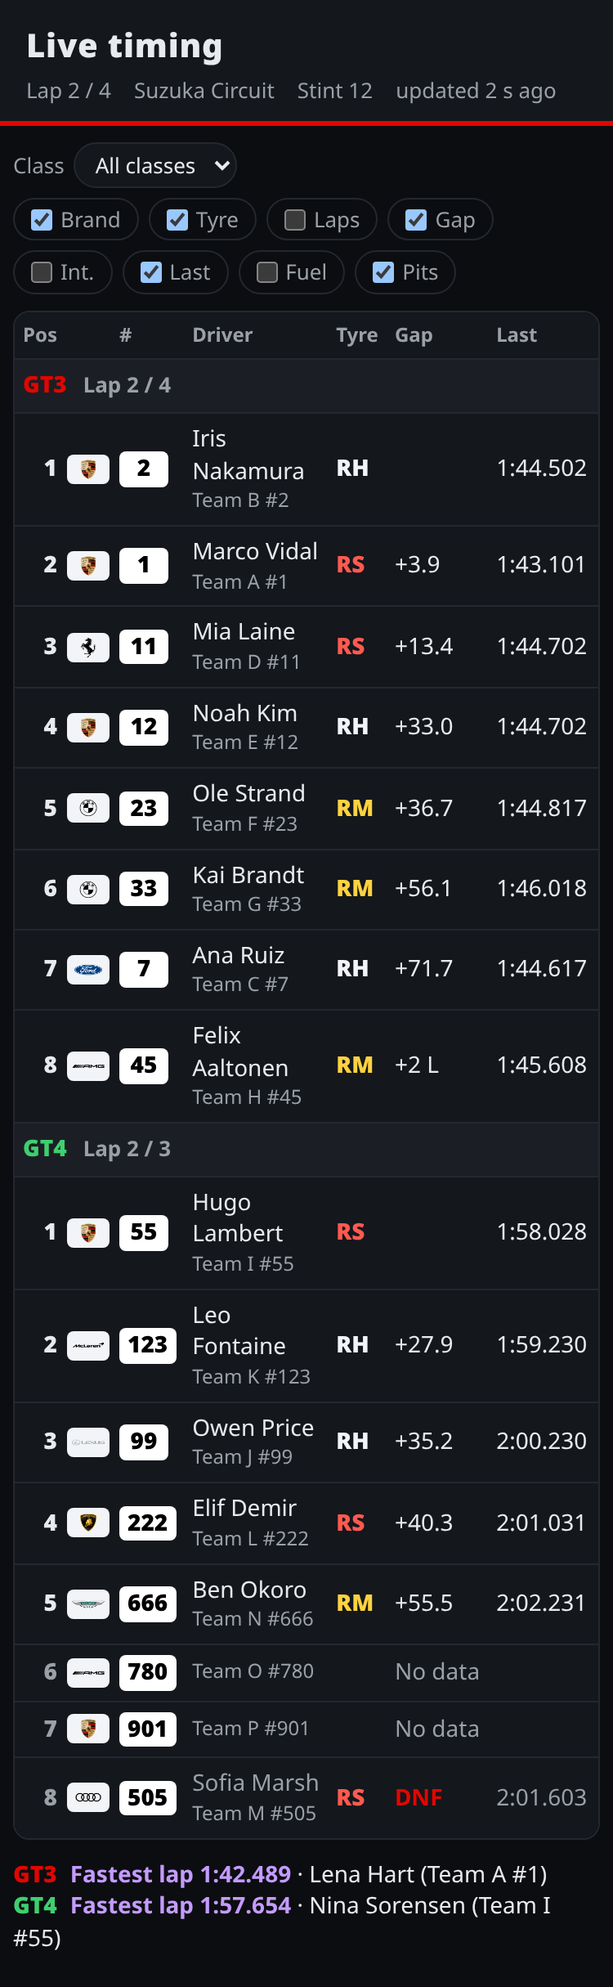
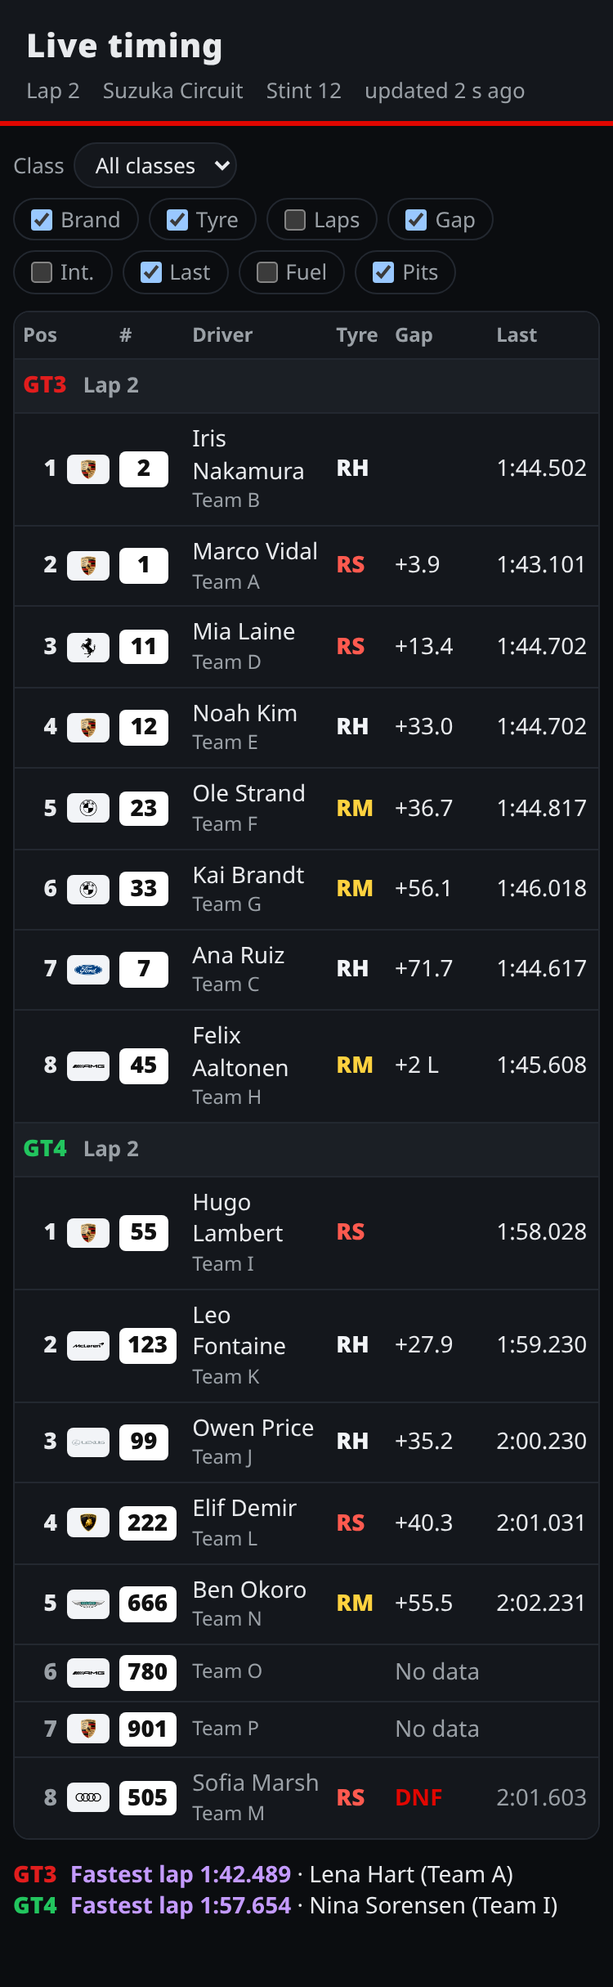
fix(obs, timing): one race timer on program, no qualifying label in the race and a public timer without lobby laps (#1370)
* fix(obs, timing): one race timer on program, no qualifying label in the race and a public timer without lobby laps

- While the HUD shows the race timer, the tower's header line shows the race
  lap instead of the time (timer_shown in the dashboard payload), so the time
  is on air once.
- A relay launch in race mode writes the on-air row's Streamer and Stint label
  into the HUD as the qualifying launch did; a race event no longer keeps the
  Qualifying label the previous event left in the Sheet.
- The public timing page shows the race timer as a clock beside the title. In
  an endurance race (multi_lobby) public_view drops the lap counts, which come
  from the stint lobbies and stay with the crew; a single-lobby race keeps its
  distance.

Closes #1364

* fix(obs, relay): review fixes for the race timer and the launch label

- timer_shown needs a relay-served HUD, so a relay without one keeps the time
  in the tower's header.
- In race mode the launch seed writes the label only over a qualifying row's
  label; a restart mid-race keeps the label on air, also one set by hand.
- With the HUD timer on air the tower's header keeps the lap count of a
  single-lobby race; an endurance race's count stays off air.
- public-timing.png recaptured without the endurance lap counts.

---------

diff --git a/src/console/timing.html b/src/console/timing.html
@@ -11,7 +11,9 @@
   * { box-sizing: border-box; }
   body { margin: 0; background: var(--bg); color: var(--ink); font: 15px/1.4 system-ui, sans-serif; }
   header { padding: 14px 16px 10px; background: var(--panel); border-bottom: 3px solid var(--accent); }
-  header > div { max-width: 1100px; margin: 0 auto; }
+  header > div { max-width: 1100px; margin: 0 auto; display: flex; align-items: center; justify-content: space-between; gap: 12px; }
+  #clock { font-size: 30px; font-weight: 800; font-variant-numeric: tabular-nums; letter-spacing: .02em; }
+  #clock[hidden] { display: none; }
   header h1 { margin: 0; font-size: 20px; font-weight: 800; letter-spacing: .02em; }
   #session { margin-top: 4px; color: var(--muted); font-size: 13px; display: flex; flex-wrap: wrap; gap: 4px 14px; }
   #session .flag { color: #ff6b6b; font-weight: 800; }
@@ -89,8 +91,11 @@
 </head>
 <body>
 <header><div>
-  <h1>Live timing</h1>
-  <div id="session"></div>
+  <div>
+    <h1>Live timing</h1>
+    <div id="session"></div>
+  </div>
+  <div id="clock" hidden></div>
 </div></header>
 <main>
   <section id="league" hidden></section>
@@ -466,14 +471,9 @@
     const parts = [];
     if (quali) parts.push("Qualifying");
     else if (d.lap && d.lap.leader) parts.push("Lap " + d.lap.leader + (d.lap.count ? " / " + d.lap.count : ""));
-    if (typeof d.remaining === "number") parts.push(null);
     if (d.track_name) parts.push(d.track_name);
     if (d.stint) parts.push(d.stint);
-    $("session").replaceChildren(...parts.map(function (p) {
-      const span = el("span", "", p);
-      if (p === null) span.id = "left";
-      return span;
-    }));
+    $("session").replaceChildren(...parts.map(function (p) { return el("span", "", p); }));
     if (d.red_flag) $("session").appendChild(el("span", "flag", "RED FLAG"));
     $("session").appendChild(el("span", "", "")).id = "age";
     tick();
@@ -563,11 +563,11 @@
   // The remaining time counts down locally only while the race timer runs.
   function tick() {
     const since = got ? Math.max(0, (Date.now() - got) / 1000) : 0;
-    const left = $("left");
-    if (left && last) {
+    const clockEl = $("clock");
+    if (clockEl && last) {
       const text = LOGIC.timerText(last.remaining, last.remaining_running, since + dataAge);
-      left.textContent = text ? text + " left" : "";
-      left.hidden = !text;
+      clockEl.textContent = text;
+      clockEl.hidden = !text;
     }
     const ageEl = $("age");
     if (ageEl && got) {

diff --git a/src/obs/drivers.html b/src/obs/drivers.html
@@ -363,9 +363,12 @@
   }
   function renderRace(d) {
     const lap = d.lap || {};
+    // A visible HUD timer already shows the time, so the header shows the race lap. An
+    // endurance race's lap count comes from the stint lobbies and stays off air then.
+    const count = lap.count && !(d.timer_shown && d.multi_lobby) ? " / " + lap.count : "";
     document.getElementById("dd-lap").textContent =
-      typeof d.remaining === "number" ? clock(d.remaining)
-      : lap.leader ? "LAP " + lap.leader + (lap.count ? " / " + lap.count : "") : "";
+      typeof d.remaining === "number" && !d.timer_shown ? clock(d.remaining)
+      : lap.leader ? "LAP " + lap.leader + count : "";
     const fl = d.fastest;
     const list = d.classes || [];
     noteLaps(d.entries || []);
@@ -421,7 +424,8 @@
   }
   function renderQualifying(d) {
     // The session line names the segment; a running timer takes the lap line, as in the race.
-    document.getElementById("dd-lap").textContent = typeof d.remaining === "number" ? clock(d.remaining) : "QUALIFYING";
+    document.getElementById("dd-lap").textContent =
+      typeof d.remaining === "number" && !d.timer_shown ? clock(d.remaining) : "QUALIFYING";
     const list = d.classes || [];
     const entries = d.qualifying || [];
     noteLaps(entries);

diff --git a/tests/test_driver_race.py b/tests/test_driver_race.py
@@ -409,12 +409,12 @@ ROSTER = {"A": {"number": "1", "bgColor": "#c00", "textColor": "#fff", "cupTeam"
           "B": {"number": "2", "bgColor": "#00c", "textColor": "#fff", "cupTeam": ""}}
 
 
-def _dash_service(ctx, path=None):
+def _dash_service(ctx, path=None, multi=False):
     path = path or os.path.join(tempfile.mkdtemp(), "driver-race.json")
     dr.write_settings(path, {"formation": False})
     clock = [0.0]
     svc = dr.Service(path, pick=lambda: {"id": "good"}, trace_for=lambda _i: TRACE,
-                     multi_lobby=lambda: False, clock=lambda: clock[0], context=lambda: ctx)
+                     multi_lobby=lambda: multi, clock=lambda: clock[0], context=lambda: ctx)
     return svc, clock, path
 
 
@@ -465,6 +465,13 @@ def t_the_dashboard_says_whether_the_clock_runs_and_how_much_it_is_delayed():
     clock[0] = 16.0
     svc.tick()
     assert svc.dashboard()["remaining_running"] is False, "a paused timer stops the page's clock"
+    ctx["timer_shown"] = True
+    clock[0] = 22.0
+    svc.tick()
+    clock[0] = 28.0
+    svc.tick()
+    assert svc.dashboard()["timer_shown"] is True, "the tower learns that the HUD shows the timer"
+    assert "timer_shown" not in dr.public_view(svc.dashboard()), "the public page has no HUD to defer to"
 
 def t_the_public_timer_is_the_delayed_one_and_only_its_hud_fields():
     ctx = {"roster": ROSTER, "stint": "Stint 1", "remaining": 600, "remaining_running": True, "mode": "race",
@@ -478,6 +485,14 @@ def t_the_public_timer_is_the_delayed_one_and_only_its_hud_fields():
     assert pub["remaining"] == 600, "the page's clock is as old as its timing rows"
     timer = {k for k in pub if k.startswith("remaining") or k in ("end", "duration_s", "server_now", "sync")}
     assert timer == {"remaining", "remaining_running"}, f"only the HUD's remaining time and run state: {timer}"
+
+
+def t_the_dashboard_says_whether_the_race_runs_over_several_lobbies():
+    for multi in (False, True):
+        svc, _clock, _path = _dash_service({"roster": ROSTER, "stint": "Stint 1", "remaining": None,
+                                            "mode": "race"}, multi=multi)
+        svc.tick()
+        assert svc.dashboard()["multi_lobby"] is multi, f"the dashboard carries the lobby mode: {multi}"
 
 
 def t_the_delay_holds_the_dashboard_back():
@@ -1775,6 +1790,14 @@ def t_the_lobby_lap_reaches_the_crew_and_never_the_viewers():
     assert isinstance(d["lobby_lap"], int) and d["lobby_lap"] >= 1, \
         f"the cockpit's dashboard carries GT7's lobby lap: {d.get('lobby_lap')}"
     assert "lobby_lap" not in json.dumps(dr.public_view(d)), "the public timing data never carries it"
+    pub = dr.public_view(d)
+    assert "count" in pub["lap"] and all("laps" in c for c in pub["classes"]), \
+        f"a single-lobby race shows its lap count to the viewers: {pub['lap']}"
+    d = dict(d, multi_lobby=True)
+    pub = dr.public_view(d)
+    assert set(pub["lap"]) == {"leader"} and all("laps" not in c for c in pub["classes"]), \
+        f"in an endurance race the lap counts come from the stint lobbies and stay on the desks: {pub}"
+    assert "multi_lobby" not in pub, "the flag itself stays off the public page"
     desk = dr.with_brands(svc.standings(), {})
     assert desk["lobby_lap"] == d["lobby_lap"] and set(desk["class_count"]) == {c["name"] for c in d["classes"]}, \
         f"GET /drivers/race gives the desks the lobby lap and the class counts: {desk.get('lobby_lap')} {desk.get('class_count')}"

diff --git a/src/relay/racecast-feeds.py b/src/relay/racecast-feeds.py
@@ -12379,6 +12379,23 @@ def _push_live_schedule(relay, setup_ctl):
         setup_ctl.set_field("stint", row["stint"])
 
 
+def seed_launch_hud(relay, setup_ctl):
+    """At launch, write the on-air row's Streamer + Stint label into the HUD. In race mode
+    only over a qualifying label the previous event left in the Sheet, so a restart in the
+    middle of a race keeps the label on air, also one the director set by hand."""
+    if getattr(relay, "solo", False) or relay.mode not in ("race", "qualifying"):
+        return
+    if relay.mode == "race":
+        try:
+            label = (setup_ctl.hud.data() or {}).get("stint")
+            quali = {row[2] for row in setup_ctl.qual_source.get_rows()} if setup_ctl.qual_source else set()
+        except Exception:                                # noqa: BLE001  best-effort, like every HUD write
+            return
+        if not label or label not in quali:
+            return
+    _push_live_schedule(relay, setup_ctl)
+
+
 def should_push_live_schedule(result):
     """True when a next_auto() result should trigger _push_live_schedule: a real
     cut (obs_cut) OR a same-URL back-to-back continuation. The DISPLAY stint
@@ -17354,11 +17371,8 @@ def main():
     relay.start()
     if not args.solo:
         relay._reflect(relay.live_feed(), cut=False)     # pre-set Stint visibility/audio for the live feed
-    # Launching straight into qualifying mode: seed the HUD Streamer/Stint from
-    # the qualifying row now (the /mode switch does this live; the launch path
-    # should match so the HUD isn't stale until the first action). Best-effort.
-    if relay.mode == "qualifying" and setup_ctl:
-        _push_live_schedule(relay, setup_ctl)
+    if setup_ctl:
+        seed_launch_hud(relay, setup_ctl)
 
     stop_evt = threading.Event()
     if source is not None:
@@ -17511,10 +17525,12 @@ def main():
         """What the driver dashboard shows beside the race (#1115)."""
         rows = schedule_rows(relay)
         cur = live_schedule_row(rows, relay.on_air_row_idx()) if rows else None
-        remaining, running = public_remaining(timer_store.data() if timer_store else None)
+        timer = timer_store.data() if timer_store else None
+        remaining, running = public_remaining(timer)
         return {"roster": hud_source.roster_details() if hud_source else {},
                 "stint": cur["stint"] if cur else None, "remaining": remaining,
                 "remaining_running": running,
+                "timer_shown": bool(hud_source and timer and timer.get("visible")),
                 "mode": relay.mode, "segment": cur["stint"] if cur and relay.mode == "qualifying" else None,
                 "connections": driver_hub.connections() if relay.mode == "qualifying" else []}
 

diff --git a/tests/test_driver_tower.py b/tests/test_driver_tower.py
@@ -111,6 +111,26 @@ def _lap(**kw):
     return dict(CAR, **kw)
 
 
+def t_the_header_leaves_the_time_to_a_visible_hud_timer():
+    got = _tower(_RACE + """
+      const head = () => document.getElementById("dd-lap").textContent;
+      const lap = {leader: 5, count: 20};
+      race(1, [], {remaining: 754, lap: lap}); const timed = head();
+      race(1, [], {remaining: 754, lap: lap, timer_shown: true}); const shown = head();
+      race(1, [], {lap: lap}); const untimed = head();
+      race(1, [], {remaining: 754, lap: lap, timer_shown: true, multi_lobby: true}); const endurance = head();
+      renderQualifying({qualifying: [], remaining: 754, timer_shown: true}); const q = head();
+      return [timed, shown, untimed, q, endurance];""")
+    if got is None:
+        return
+    timed, shown, untimed, q, endurance = got
+    assert endurance == "LAP 5", f"an endurance race's count comes from the stint lobbies and stays off air: {endurance}"
+    assert timed == "12:34", f"without the HUD timer the tower keeps the time: {timed}"
+    assert shown == "LAP 5 / 20", f"with the HUD timer on air the header shows the race lap: {shown}"
+    assert untimed == "LAP 5 / 20", f"no timer at all keeps the lap and its count: {untimed}"
+    assert q == "QUALIFYING", f"qualifying names the session while the HUD shows the time: {q}"
+
+
 def t_a_new_lap_shows_for_the_league_seconds_then_the_gap():
     got = _tower(_RACE + f"""
       lastLapS = 5;
@@ -1104,6 +1124,21 @@ def t_the_public_page_groups_by_class_and_filters():
     assert got["bad"]["head"] == "<b>GT4</b>Lap 6 / 18" and got["bad"]["kids"] == 0, \
         f"a class name is plain text: {got['bad']}"
     assert "url" not in got["bad"]["color"], f"a colour that is not one never reaches the style: {got['bad']}"
+
+
+def t_the_public_page_shows_the_race_timer_as_its_own_clock():
+    got = _public("""
+      render({mode: "race", entries: [], lap: {leader: 5}, remaining: 754, remaining_running: false});
+      const shown = [text(document.getElementById("clock")), document.getElementById("clock").hidden,
+                     text(document.getElementById("session"))];
+      render({mode: "race", entries: [], lap: {leader: 5}});
+      return shown.concat([document.getElementById("clock").hidden]);""")
+    if got is None:
+        return
+    clock, hidden, session, gone = got
+    assert clock == "12:34" and hidden is False, f"the race timer stands as a clock of its own: {clock!r} {hidden}"
+    assert "left" not in session and session.startswith("Lap 5"), f"the session line keeps the lap only: {session!r}"
+    assert gone is True, "without a race timer the clock is hidden"
 
 
 def t_the_public_page_remembers_the_class_and_forgets_a_gone_one():

diff --git a/src/scripts/driver_race.py b/src/scripts/driver_race.py
@@ -334,6 +334,9 @@ def public_view(snap):
     def rows(items):
         return [{k: r[k] for k in _PUBLIC_ROW if k in r} for r in items or ()]
     out = {k: snap[k] for k in _PUBLIC_TOP if k in snap}
+    multi = snap.get("multi_lobby") is True      # its lap counts come from the stint lobbies, a crew matter
+    if multi and isinstance(snap.get("lap"), dict):
+        out["lap"] = {"leader": snap["lap"].get("leader")}
     fl = snap.get("fastest")
     if fl:
         out["fastest"] = {k: fl.get(k) for k in _PUBLIC_LAP}
@@ -341,7 +344,7 @@ def public_view(snap):
         out["fastest"] = None
     if snap.get("classes"):
         out["classes"] = [{"name": c.get("name"), "color": c.get("color"), "lap": c.get("lap"),
-                           "laps": c.get("laps"),
+                           **({} if multi else {"laps": c.get("laps")}),
                            "fastest": {k: c["fastest"].get(k) for k in _PUBLIC_LAP} if c.get("fastest") else None}
                           for c in snap["classes"]]
     if "qualifying" in snap:
@@ -844,6 +847,7 @@ class Service:
         pick = self._pick() or {}
         out = {"v": 1, "mode": ctx.get("mode") or "race", "stint": ctx.get("stint"),
                "remaining": ctx.get("remaining"), "remaining_running": bool(ctx.get("remaining_running")),
+               "timer_shown": bool(ctx.get("timer_shown")),
                "track": pick.get("id"), "track_name": pick.get("track") or None,
                "visible": self._settings()["visible"]}
         race = self._current()
@@ -876,7 +880,7 @@ class Service:
         fl = race.fastest
         out.update({
             "state": st["state"], "red_flag": st["red_flag"] is not None, "lap": st["lap"],
-            "lobby_lap": st["lobby_lap"],
+            "lobby_lap": st["lobby_lap"], "multi_lobby": bool(race.multi_lobby),
             "fastest": self._shown_lap(race, fl, roster),
             "classes": [{"name": name, "color": colors.get(name, ""),
                          "lap": st["class_lap"][name],

diff --git a/tests/test_pov.py b/tests/test_pov.py
@@ -703,6 +703,49 @@ def t_health_snapshot_live_stint_is_display_row_on_continuation():
     assert snap["live_stint"] == rc.on_air_row_idx() + 1 == 3, snap["live_stint"]
 
 
+def t_a_launch_seeds_the_hud_only_over_a_qualifying_label():
+    class Hud:
+        def __init__(self, stint):
+            self.stint = stint
+
+        def data(self):
+            return {"stint": self.stint, "streamer": "Sub"}
+
+    class Rows:
+        def __init__(self, rows):
+            self.rows = rows
+
+        def get_rows(self):
+            return self.rows
+
+    class Ctl:
+        def __init__(self, label):
+            self.fields, self.hud = [], Hud(label)
+            self.qual_source = Rows([("", "Comms 1", "Qualifying", 2)])
+
+        def set_field(self, k, v):
+            self.fields.append((k, v))
+
+    class Relay:
+        def __init__(self, mode, solo=False):
+            self.mode, self.solo = mode, solo
+
+        def live_schedule_row(self):
+            return {"streamer": "Comms 1", "stint": "Stint 1" if self.mode == "race" else "Qualifying"}
+    ctl = Ctl("Qualifying")
+    m.seed_launch_hud(Relay("race"), ctl)
+    assert ("stint", "Stint 1") in ctl.fields, f"a race launch replaces the qualifying label: {ctl.fields}"
+    ctl = Ctl("Stint 2")
+    m.seed_launch_hud(Relay("race"), ctl)
+    assert ctl.fields == [], f"a restart mid-race keeps the label on air, also one set by hand: {ctl.fields}"
+    ctl = Ctl("Stint 2")
+    m.seed_launch_hud(Relay("qualifying"), ctl)
+    assert ("stint", "Qualifying") in ctl.fields, f"a qualifying launch seeds as before: {ctl.fields}"
+    ctl = Ctl("Qualifying")
+    m.seed_launch_hud(Relay("race", solo=True), ctl)
+    assert ctl.fields == [], "solo mode has no schedule to seed from"
+
+
 def t_should_push_live_schedule_fires_on_cut_or_continuation():
     # A real cut (obs_cut) always advances the HUD label; a same-URL continuation
     # advances the DISPLAY stint without a cut, so the HUD must advance too. Only a

diff --git a/src/relay/CLAUDE.md b/src/relay/CLAUDE.md
@@ -42,7 +42,9 @@ single stream → it lands on Feed A (B idles). Switch at launch (`--qualifying`
 (`set_mode`, re-points feeds like a takeover); the panel has a Qualifying section
 (mode toggle + a one-row editor writing the Qualifying tab via the `schedule`
 webhook action with `tab:"Qualifying"`). On switch the HUD Streamer/Stint follow
-the qualifying row (the issue #112 path).
+the qualifying row (the issue #112 path); at launch `seed_launch_hud` writes the on-air row's, in race mode
+only over a qualifying row's label, so a race event never keeps the label a qualifying event
+left in the Sheet and a restart mid-race keeps the label on air.
 **Qualifying in the event lifecycle.** Qualifying is also a first-class *broadcast
 Part*: a `Q` row in the `Producer` tab (its own Stream Key) is the qualifying
 broadcast, and the Director-Panel Parts control is **mode-gated**,
@@ -435,7 +437,7 @@ answers `/console/buttons` with 503 instead of reaching the Companion on this ma
 
 **Timing host (#1161).** A league with `TIMING_HOST_URL` and `TIMING_HOST_PUBLISH_KEY` in its `profile.env` gets an external fan-out: `timing_publish.Publisher` (a relay thread from `_start_timing_publisher`, idle without a host, started only after the control port is bound, so a losing second start never replaces the live relay's publisher; a stop before the bind ends the waiting thread, and the relay's shutdown wakes it and gives it up to 1 s to close its socket without ending the room) holds one TLS WebSocket (`ws_client`, `obs_ws` framing) to `wss://<host>/t/<link id>/publish?v=1` and sends the tick body as a `state` frame every 2 s (`timing_host`: frame builders, `read_settings`). The Cloudflare Worker (`src/timing-host/worker.js`) fans it out per link id in a Durable Object and acks; 15 s without an ack reconnects, failures back off to 30 s and warn once. The publisher re-reads the host keys from `RACECAST_PROFILE_ENV_FILE` when `POST /drivers/timing-host/reload` (tailnet only, never under `/console`) nudges it, so a deploy or settings change needs no restart; a changed or cleared timing link sends `end` to the old room, over one bounded connection of its own when the publisher is disconnected. `event stop` and `event timing --new` nudge the publisher, and `event stop` waits up to `TIMING_END_WAIT_S` while `status()['room']` says it still owes the old room its `end` before it stops the relay. After a replacement by another relay (`REPLACED`) the publisher keeps the 30 s backoff until a connection held for `STABLE_S`, so two relays on one link stay a quiet duel. Both pages run side by side: the served path (`timing_link.served`, `runtime/<profile>/timing-served.json`, `hosted` by default with a host, reset by a fresh `event start`, kept by a renewal) decides which link the desks, `racecast event timing` and the Control Center Home row offer. While `hosted` is served and the publisher is connected, the Funnel data carries `moved_to` (the hosted link), except while the publisher's quota estimate (`requests_today` + messages / 20) is at or above `QUOTA_GUARD_REQUESTS` (90 % of 100,000): then `status()['quota_low']` is true (shown in the Home row and the desks), the publisher sends `moved` toward Funnel, and only a new UTC day lifts it, because the estimate adds the rooms the publisher left that day (`_requests_base`); switching to `funnel` (`event timing --serve funnel`, Home row switch) sends `moved` to the room. The page's transport decisions are the pure `TimingLogic` block in `timing.html` (deno tests in `tests/timing-host/page_test.js`): a hosted page falls back to Funnel (`from=host`) after 3 failed reconnects and 12 s since the drop, a deliberate move arrives as `from=moved`, and the Funnel page follows `moved_to` back after a dwell (10 s moved, 60 s fallback). `GET /drivers/timing-link` adds `served`, `hosted_url`, `funnel_url` and the publisher's `status()`. The Funnel URL (also each state's `fallback`) exists only while Funnel serves `/console`: `_funnel_watch` answers from a cache and asks the tailscale CLI in the background at most once a minute, never in a request. Its `magicdns()` also feeds the control server's Host check (`_browser_request_allowed`), so a MagicDNS name that appears after the relay started is accepted without a restart (the relay's watch also refreshes itself every 30 s, so the name is known within about a minute of Tailscale coming up, before anyone asks); `POST /console/drive/ingest` and `/console/probe/ingest` skip the Host check, since they authenticate by a custom header a cross-site page cannot set. Brand logos travel as `brand` frames (`timing_host.brand_frame`, base64 PNG) after the first state, one per step, each once per connection and again when its bytes change (`brands_fn`, the Funnel route's resolver); they count in `msgs_today`, and a failed logo send pauses logos for `BRAND_PAUSE_S` so a slow uplink keeps its states. The room keeps at most 64 as base64 under `brand:<key>` (PNG magic, 256 KiB, `[a-z0-9-]{1,64}`) and delivers them over the viewer sockets, never as requests (Cloudflare bills only incoming socket messages): each logo to a new viewer after the state, and a new or replaced one to every connected viewer; `end` deletes them with the room. The Worker has no logo route. The hosted page (`TimingLogic.brandMessage`) turns each into a blob URL (the room's CSP allows `blob:` images) and never requests a logo. The publisher only reads the delayed body; it never touches `driver_race` or the feeds (`t_internal_dashboard_routes_ignore_a_dead_host`).
 
-**Driver dashboard data (#1115).** `race_distance` times each lap of the active counting car between two counter steps and takes GT7's `last_ms` only within `LAP_TIME_TOLERANCE` of that (a lap with a start, red flag, change or move in it never counts); such a lap shows as `last_lap_ms`, but counts for the fastest lap only once GT7's `best_ms` equals it within `LAP_TIME_WAIT_S` of the line, since `last_ms` carries red laps too and only `best_ms` leaves them out (#1264); a lap under `Race.min_lap_s` (the line at `MAX_SPEED_MPS`) never counts, a sample not newer than the car's last is dropped, and the probe samples a repeated packet id once; the fastest race lap and each class's (`by_class`) persist with their pick id in `runtime/<profile>/driver-race-fastest.json` (cleared by a race reset and a fresh `event start`, ignored on another layout, voided or set by `POST /drivers/race/fastest`, a void taking the fastest of the other counted laps (`Race.void_fastest`, each entry's `counted`); an optional `class`, validated like the class-laps route, voids or sets only that class's lap and leaves the overall one, and the entry must be in that class; in class mode `GET /drivers/race` carries `class_fastest`). `by_class` is written only when a class holds a lap. `driver_race.Service.tick` (every `SNAPSHOT_EVERY_S`, a relay thread) builds the viewer payload from `_dashboard_context` (Configuration roster with `cupTeam` from the optional `Cup Team` column, the on-air stint label, the race timer's remaining seconds, the mode, in qualifying the hub's connections) as an allowlist and keeps a ring of snapshots; `dashboard()` serves the one `delay_s` old, with the current `visible`, `delay_s` and display switches, so Hide/Show never waits for the delay. Qualifying ranks the on-air segment by `best_ms` (`driver_race.qualifying`, with `gap_ms`, `interval_ms` and the sender's latest `last_ms` as `last_lap_ms`; `quali_classes` adds the class fields like the race's class mode; qualifying carries no `fastest`); the service keeps each entry's best and last lap from live senders per pick and segment in memory (`_quali_seen`), so a lap stays after its sender goes quiet. `Service._quali` builds it for the delayed dashboard and, live, for `standings()` (`mode`, `segment`, `qualifying`, `quali_classes`), which the desks render; the pages derive purple (P1's best) and green (personal best) from `last_lap_ms == best_ms`, so no colour flag enters `public_view`. `GET /drivers/dashboard` and `GET /drivers/line` (decimated `reference_trace`, cached per pick) are ANY-tier under `/console`. The OBS page `src/obs/drivers.html` (`/drivers`, builder page `drivers` with `/drivers/override.css`, in `OBS_PAGE_PATHS`) renders them and stays blank until the settings' `visible` (default False); the cockpit's Timing area polls the same payload. The track map is one module, `src/ui/track-map.js` (public static code at `/track-map.js` and `/console/track-map.js`, served before the gate): the overlay and the cockpit draw it from the delayed dashboard, the Race Control desk (`driver-desk.js`, only where the page has a `[data-track-map]` SVG) from its undelayed `/drivers/race` rows, which `with_brands` gives the roster number and colours. Both desks' `driver-desk.js` add the delay, fastest-lap and qualifying corrections (`set_quali`, kept in the actions file) and Race Control's added laps (`add_quali_lap`, `POST /drivers/race/quali-lap`, `quali_laps` per segment with best, last and wall time; the last lap is the newer of it and GT7's, whose change time `_quali_seen` keeps and `quali_gt7` stores per segment on each change, so the order survives a relay restart; `set_quali(clear=True)` drops both). A qualifying row without a sender shows the name override of the latest approved, connected request's driver of the segment (`make_handler` hands `driver_requests.Store.all` to `Service.use_requests`), else the `(entry, "")` name override, else that request's name; only the panel mounts it with `dashboardToggle`, and the relay refuses `visible` from `race_control:` (a program change). The tyre compound (#1123) is crew data in the actions file (`set_compound`, last change wins with its author), shown on the overlay as a ring letter unless `show_compound` is off; each viewer row carries `brand` (the roster's `brandKey` when it matches `driver_race.BRAND_KEY_RE`, else "") and `brand_name`, also in `public_view`, and `GET /drivers/race` adds both through `driver_race.with_brands` for the desks; the tower, the desks and the cockpit load logos from `/drivers/brand/<key>` (ANY-tier under `/console`, the same roster-bound resolver as the public route); the overlay builder's `showBrands` prop on the Timing tower compiles to `--dd-brands` (logo and number share one auto grid track, `.dd-id`, so the row closes up); `show_fuel` drops the overlay's fuel column (`fuel_l` read as percent: GT7's tank is 100); the value column cycles gap to the leader and interval (a header badge `#dd-phase`, `data-phase` gap or interval, names the phase), and a row whose `last_lap_ms` changes shows the new lap for the league's `last_lap_s` (`profiles/<name>/driver-race.json` next to `restart`, `read_league` per `dashboard()` call so a change applies live, 1 to 30, default 5, in the payload's `show`) with the page seeding its per-entry memory silently so a reload replays nothing; a row it first sees after its first render shows its lap only with `lap_fresh` (qualifying rows: the last lap is at most `last_lap_s` old at the snapshot; not in `public_view`), and a finished row shows a chequered flag in place of ring and fuel with its final gap, which `standings()` keeps after the car goes quiet. Classes (`docs/superpowers/specs/2026-11-19-multiclass-design.md`): the roster's `Class`/`Class Color` columns give `carClass`/`classColor`; with at least two named classes (`_named_classes`, "" never counts) `Race.set_classes` adds `class`, `class_pos`, `class_gap_s`, `class_interval_s` and `class_lapped` to each standings row from the same history as the overall gaps (retired and no-sender rows get a position but no class gaps), the viewer payload adds `class_color` per row and a `classes` list (name, color, lap, laps, fastest; the "" group last), and `public_view` allowlists exactly those; with fewer classes every payload is unchanged. Each standings row also carries `class_gap_time_s` and `class_interval_time_s`, the time to the class leader and to the class car ahead like `gap_time_s`/`interval_time_s` (also for a car lapped in its class, estimates from the overall rows), for the desks, the recording and the snapshot page only: it is not in `_CLASS_ROW`, so neither the dashboard nor `public_view` carries them. The viewer reads the class lap counts only in class mode. The tower groups under class headers and pages one class per page for `CYCLE_MS * PHASES.length` when the groups exceed the tower's rows (`towerRows`/`capacity`, measured each render: a `#drivers-tower` height over `LEGACY_PX` 128, the builder's sample canvas, holds the whole `.dd-row` heights it fits, at least `MIN_ROWS` 5; otherwise the tower is `height: auto` and grows to `PAGE_BOTTOM` 1016 minus the fastest lap box, which `placeFastest` moves `FL_GAP` 16 px under the last row while it sits in the tower's column below it, 20 rows by default), the map rings each dot in its class colour (the EST ring wins), and the recording stores class, class position and class gaps per sample (the CSV class and class position only). Design survey: `src/docs/design/driver-dashboard-layout.md`.
+**Driver dashboard data (#1115).** `race_distance` times each lap of the active counting car between two counter steps and takes GT7's `last_ms` only within `LAP_TIME_TOLERANCE` of that (a lap with a start, red flag, change or move in it never counts); such a lap shows as `last_lap_ms`, but counts for the fastest lap only once GT7's `best_ms` equals it within `LAP_TIME_WAIT_S` of the line, since `last_ms` carries red laps too and only `best_ms` leaves them out (#1264); a lap under `Race.min_lap_s` (the line at `MAX_SPEED_MPS`) never counts, a sample not newer than the car's last is dropped, and the probe samples a repeated packet id once; the fastest race lap and each class's (`by_class`) persist with their pick id in `runtime/<profile>/driver-race-fastest.json` (cleared by a race reset and a fresh `event start`, ignored on another layout, voided or set by `POST /drivers/race/fastest`, a void taking the fastest of the other counted laps (`Race.void_fastest`, each entry's `counted`); an optional `class`, validated like the class-laps route, voids or sets only that class's lap and leaves the overall one, and the entry must be in that class; in class mode `GET /drivers/race` carries `class_fastest`). `by_class` is written only when a class holds a lap. `driver_race.Service.tick` (every `SNAPSHOT_EVERY_S`, a relay thread) builds the viewer payload from `_dashboard_context` (Configuration roster with `cupTeam` from the optional `Cup Team` column, the on-air stint label, the race timer's remaining seconds and whether a relay-served HUD shows it (`timer_shown`: the tower's header then shows the race lap instead of the time, without the count in an endurance race), the mode, in qualifying the hub's connections) as an allowlist and keeps a ring of snapshots; `dashboard()` serves the one `delay_s` old, with the current `visible`, `delay_s` and display switches, so Hide/Show never waits for the delay. Qualifying ranks the on-air segment by `best_ms` (`driver_race.qualifying`, with `gap_ms`, `interval_ms` and the sender's latest `last_ms` as `last_lap_ms`; `quali_classes` adds the class fields like the race's class mode; qualifying carries no `fastest`); the service keeps each entry's best and last lap from live senders per pick and segment in memory (`_quali_seen`), so a lap stays after its sender goes quiet. `Service._quali` builds it for the delayed dashboard and, live, for `standings()` (`mode`, `segment`, `qualifying`, `quali_classes`), which the desks render; the pages derive purple (P1's best) and green (personal best) from `last_lap_ms == best_ms`, so no colour flag enters `public_view`. `GET /drivers/dashboard` and `GET /drivers/line` (decimated `reference_trace`, cached per pick) are ANY-tier under `/console`. The OBS page `src/obs/drivers.html` (`/drivers`, builder page `drivers` with `/drivers/override.css`, in `OBS_PAGE_PATHS`) renders them and stays blank until the settings' `visible` (default False); the cockpit's Timing area polls the same payload. The track map is one module, `src/ui/track-map.js` (public static code at `/track-map.js` and `/console/track-map.js`, served before the gate): the overlay and the cockpit draw it from the delayed dashboard, the Race Control desk (`driver-desk.js`, only where the page has a `[data-track-map]` SVG) from its undelayed `/drivers/race` rows, which `with_brands` gives the roster number and colours. Both desks' `driver-desk.js` add the delay, fastest-lap and qualifying corrections (`set_quali`, kept in the actions file) and Race Control's added laps (`add_quali_lap`, `POST /drivers/race/quali-lap`, `quali_laps` per segment with best, last and wall time; the last lap is the newer of it and GT7's, whose change time `_quali_seen` keeps and `quali_gt7` stores per segment on each change, so the order survives a relay restart; `set_quali(clear=True)` drops both). A qualifying row without a sender shows the name override of the latest approved, connected request's driver of the segment (`make_handler` hands `driver_requests.Store.all` to `Service.use_requests`), else the `(entry, "")` name override, else that request's name; only the panel mounts it with `dashboardToggle`, and the relay refuses `visible` from `race_control:` (a program change). The tyre compound (#1123) is crew data in the actions file (`set_compound`, last change wins with its author), shown on the overlay as a ring letter unless `show_compound` is off; each viewer row carries `brand` (the roster's `brandKey` when it matches `driver_race.BRAND_KEY_RE`, else "") and `brand_name`, also in `public_view`, and `GET /drivers/race` adds both through `driver_race.with_brands` for the desks; the tower, the desks and the cockpit load logos from `/drivers/brand/<key>` (ANY-tier under `/console`, the same roster-bound resolver as the public route); the overlay builder's `showBrands` prop on the Timing tower compiles to `--dd-brands` (logo and number share one auto grid track, `.dd-id`, so the row closes up); `show_fuel` drops the overlay's fuel column (`fuel_l` read as percent: GT7's tank is 100); the value column cycles gap to the leader and interval (a header badge `#dd-phase`, `data-phase` gap or interval, names the phase), and a row whose `last_lap_ms` changes shows the new lap for the league's `last_lap_s` (`profiles/<name>/driver-race.json` next to `restart`, `read_league` per `dashboard()` call so a change applies live, 1 to 30, default 5, in the payload's `show`) with the page seeding its per-entry memory silently so a reload replays nothing; a row it first sees after its first render shows its lap only with `lap_fresh` (qualifying rows: the last lap is at most `last_lap_s` old at the snapshot; not in `public_view`), and a finished row shows a chequered flag in place of ring and fuel with its final gap, which `standings()` keeps after the car goes quiet. Classes (`docs/superpowers/specs/2026-11-19-multiclass-design.md`): the roster's `Class`/`Class Color` columns give `carClass`/`classColor`; with at least two named classes (`_named_classes`, "" never counts) `Race.set_classes` adds `class`, `class_pos`, `class_gap_s`, `class_interval_s` and `class_lapped` to each standings row from the same history as the overall gaps (retired and no-sender rows get a position but no class gaps), the viewer payload adds `class_color` per row and a `classes` list (name, color, lap, laps, fastest; the "" group last), and `public_view` allowlists exactly those, without each class's `laps` in an endurance race (`multi_lobby` in the payload, where `public_view` also cuts `lap` to the leader's lap: the counts come from the stint lobbies and stay with the crew); with fewer classes every payload is unchanged. Each standings row also carries `class_gap_time_s` and `class_interval_time_s`, the time to the class leader and to the class car ahead like `gap_time_s`/`interval_time_s` (also for a car lapped in its class, estimates from the overall rows), for the desks, the recording and the snapshot page only: it is not in `_CLASS_ROW`, so neither the dashboard nor `public_view` carries them. The viewer reads the class lap counts only in class mode. The tower groups under class headers and pages one class per page for `CYCLE_MS * PHASES.length` when the groups exceed the tower's rows (`towerRows`/`capacity`, measured each render: a `#drivers-tower` height over `LEGACY_PX` 128, the builder's sample canvas, holds the whole `.dd-row` heights it fits, at least `MIN_ROWS` 5; otherwise the tower is `height: auto` and grows to `PAGE_BOTTOM` 1016 minus the fastest lap box, which `placeFastest` moves `FL_GAP` 16 px under the last row while it sits in the tower's column below it, 20 rows by default), the map rings each dot in its class colour (the EST ring wins), and the recording stores class, class position and class gaps per sample (the CSV class and class position only). Design survey: `src/docs/design/driver-dashboard-layout.md`.
 
 **Driver telemetry desks (#1114).** `src/console/driver-desk.js` (public static code at `/driver-desk.js` and `/console/driver-desk.js`, served before the gate like `driver-radio-ui.js`) renders the same controls in the Race Control desk (`base` `/race-control`) and the Director Panel (`base` ""), each part (`SLOTS`) into the page's `[data-desk="<part>"]` mount point (#1267): the desk's areas and live column, the panel's Race area tabs. Over the Funnel the panel reaches `/console/drivers/*` (director-tier) and the desk `/console/race-control/drivers/*` (race_control), which `_console_gate` rewrites to the root `/drivers/*` handlers (an allowlist per method in `console_policy`, `_DRIVER_DESK_GET`/`_POST`: `/drivers/data` and the race reset stay on the tailnet); the gate sets `self._race_who` (`director:<subject>` or `race_control:<subject>`, reset at the top of every `do_GET`/`do_POST`) and the handlers audit with it, `tailnet` otherwise. Routes beyond #1112/#1113: `GET /drivers/readiness` (`driver_ingest.readiness`, with `focus` = the stint on air and the next), `GET /drivers/invite` (the id, and `base`, the Funnel address while Funnel serves `/console`; the desks build the link from it, else from their own origin, and prefer the timing link's `funnel_url` the same way), `POST /drivers/reassign {conn, entry}` (`Hub.reassign` keeps the sender's slot under the new entry; the race moves the car and parks an old entry with no car left, keeping its distance, corrections and the car's counting state, so moving the car back resumes the team). **First program change for Race Control over the Funnel:** `POST /console/race-control/red-flag {on}` raises (or lowers) the Standby Cover in `obs_ws.graphic_scene`, sets the HUD banner `RED_FLAG_BANNER` through `SetupControl.set_field` (needs the webhook and the Configuration vocabulary, exactly like the panel's RED FLAG) and holds the race; it reports `cover`/`banner` so the desk can say what failed (never the OBS note, which can name the WebSocket host), and logs a WARNING with the identity. `{on:false}` lowers the cover only when this route turned it on (`relay.rc_red_flag_raised`: set only when the cover was down before the raise, kept by a later raise over it, cleared by any director, Companion or auto-cover switch of it), never an auto-cover over a dead feed (#495) or the director's own, and, only when this route set the banner, puts back the value its raise replaced (`relay.rc_red_flag_prev_banner`, empty when that was the RED FLAG banner or left the vocabulary; claim `relay.rc_red_flag_banner`, its own claim, so a cover that was already up or an unreachable OBS still lets Restart released clear it; a successful `/setup/set|clear/racecontrol`, the one-button handover's clear or another value in the Setup tab ends it, for which the lower re-reads the Sheet first, after the rate limit and once for concurrent lowers; a refused write keeps it); one change per person in `RED_FLAG_MIN_S`. The panel's own RED FLAG also posts `/drivers/race/red-flag` when it raises the cover; `driver_race.Service.red_flag` without a `mode` over a race already held freezes the field again with the race's current restart mode, not the league default. Last change wins; `last_action` shows its author in both desks. Tests: `tests/test_console.py`, `tests/test_driver_routes.py`, `tests/test_driver_ingest.py`.
 

diff --git a/src/docs/wiki/Driver-Telemetry.md b/src/docs/wiki/Driver-Telemetry.md
@@ -420,7 +420,10 @@ colour, driver, the `Cup Team` from the [Configuration tab](Sheet-Template), gap
 pit stops, race laps (in endurance also the laps of the current stint lobby), the last
 completed lap time, fuel, each car's position for the track map, the leader's race lap
 against the lap count in race laps (in endurance once the final lobby's car counts; never
-past the count), the remaining time of the race timer and the fastest race lap.
+past the count), the remaining time of the race timer and the fastest race lap. In an
+endurance race the lap counts come from the stint lobbies, so the public page shows the
+leader's lap without them. While the HUD shows the race timer, the tower's header line
+shows the leader's race lap instead of the time, so the time is on air once.
 It never carries connection ids, corrections or who made them.
 
 - **Lap times** are timed by the relay between two crossings of the line and taken
@@ -572,8 +575,8 @@ these columns existed shows them only after a redeploy. It has the
 same delay as the broadcast dashboard. Readers can switch columns on and off, and an
 activity list notes new fastest laps, red flags and the chequered flag.
 
-The remaining time of the [race timer](Race-Timer) shows in the line under the title,
-as `1:02:03 left`, counting down while the timer runs and standing while it is paused.
+The remaining time of the [race timer](Race-Timer) shows as a clock at the right of the
+title, counting down while the timer runs and standing while it is paused.
 Unlike the HUD clock it shows no preset duration before the start. It has the same delay as the table, so the clock is never
 ahead of the order it stands next to. Without a race timer, after a reset, with the
 clock hidden on air or once it has run out, the page shows no time. A
